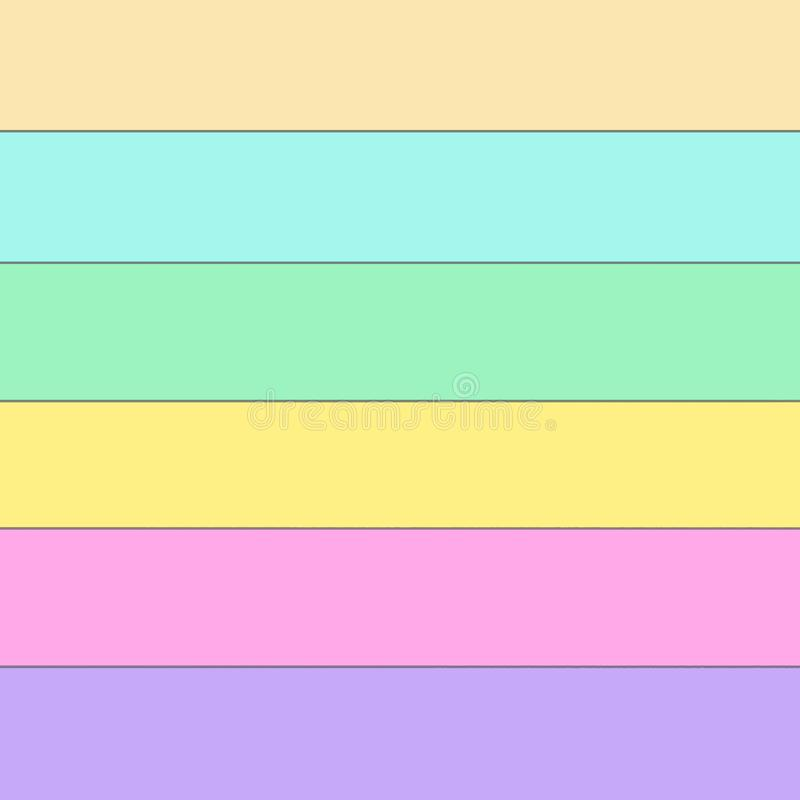
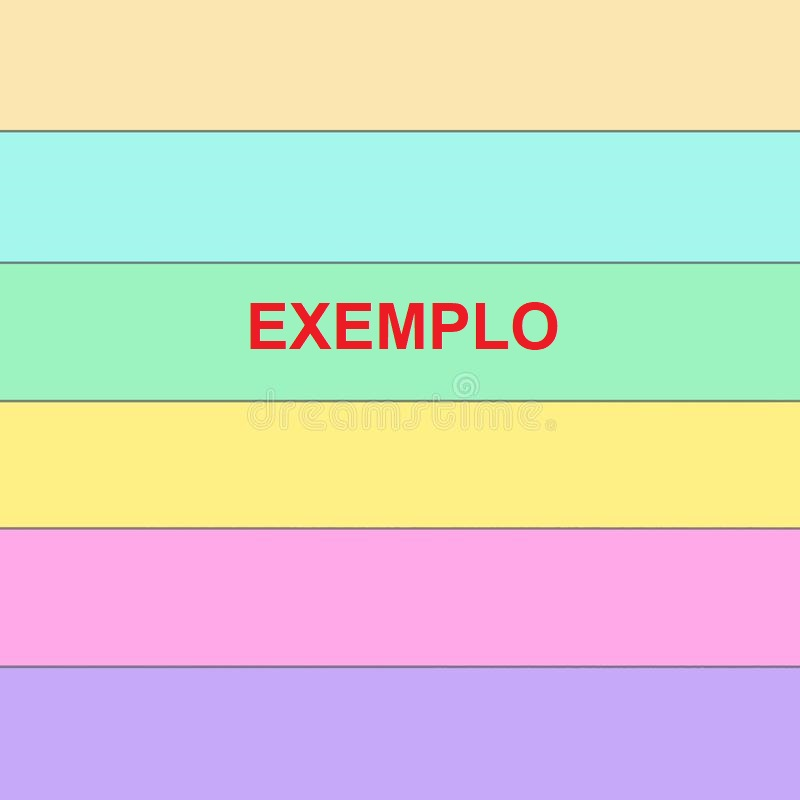
Finalização da página BancoDados.html

Changed region(s): [[0.3125, 0.375, 0.7188, 0.4375]]

diff --git a/front/bancoDados.html b/front/bancoDados.html
@@ -6,7 +6,7 @@
         <meta name="viewport" content="width=devicewidth, initial-scale = 1">
         <link rel="stylesheet" href="styles/CSSReset.css">
         <link rel="stylesheet" href="styles/styles.css">
-        <link rel="stylesheet" href="styles/quemSomos.css">
+        <link rel="stylesheet" href="styles/bancoDados.css">
         <link rel="preconnect" href="https://fonts.googleapis.com">
         <link rel="preconnect" href="https://fonts.gstatic.com" crossorigin>
         <link href="https://fonts.googleapis.com/css2?family=Inter:wght@400;700&display=swap" rel="stylesheet">
@@ -27,12 +27,19 @@
                 </ul>
             </nav>
         </header>
-        <div class="descricao_texto">
-            <div class="bg"></div>
-            <h1>Progresso do trabalho</h1>
-            <p>Colocar aqui um resumo sobre o processo do trabalho</p>
-        </div>
-        
+        <section>
+            <h1>Banco de Dados</h1>
+            <h2>Gráfico</h2>
+            <img src="images/foto_exemplo.jpg">
+            <h2>Dados em CSV</h2>
+            <p>dados,dados,dados,dados,dados,dados,dados,dados,dados,dados,dados,dados,
+                dados,dados,dados,dados,dados,dados,dados,dados,dados,dados,dados,dados,dados,
+                dados,dados,dados,dados,dados,dados,dados,dados,dados,dados,dados,dados,dados,
+                dados,dados,dados,dados,dados,dados,dados,dados,dados,dados,dados,dados,dados,
+                dados,dados,dados,dados,dados,dados,dados,dados,dados,dados,dados,dados,dados,
+                dados,dados,dados,dados,dados,dados,dados,dados,dados,dados,dados,dados,dados
+            </p>
+        </section>
         <footer>
         </footer>
     </body>

diff --git a/front/professores.html b/front/professores.html
@@ -6,7 +6,7 @@
         <meta name="viewport" content="width=devicewidth, initial-scale = 1">
         <link rel="stylesheet" href="styles/CSSReset.css">
         <link rel="stylesheet" href="styles/styles.css">
-        <link rel="stylesheet" href="styles/quemSomos.css">
+        <link rel="stylesheet" href="styles/professores.css">
         <link rel="preconnect" href="https://fonts.googleapis.com">
         <link rel="preconnect" href="https://fonts.gstatic.com" crossorigin>
         <link href="https://fonts.googleapis.com/css2?family=Inter:wght@400;700&display=swap" rel="stylesheet">
@@ -27,12 +27,6 @@
                 </ul>
             </nav>
         </header>
-        <div class="descricao_texto">
-            <div class="bg"></div>
-            <h1>Progresso do trabalho</h1>
-            <p>Colocar aqui um resumo sobre o processo do trabalho</p>
-        </div>
-        
         <footer>
         </footer>
     </body>

diff --git a/front/styles/bancoDados.css b/front/styles/bancoDados.css
@@ -1,0 +1,47 @@
+:root {
+    --branco-principal: #FFFFFF;
+    --preto-principal: #000000;
+    --azul-unb: #023E7A;
+    --verde-unb: #008C44;
+    --fonte-principal: 'Inter';
+}
+
+section {
+    margin-top: 180px;
+    color: var(--branco-principal);
+    display: flex;
+    flex-direction: column;
+    align-items: flex-start;
+}
+
+
+section h1 {
+    font-size: 70px;
+    text-align: center;
+    align-self: center;
+    padding: 10px 30px;
+    background-color: var(--azul-unb);
+    border-radius: 10px;
+}
+
+section h2{
+    margin: 40px 0;
+    font-size: 50px;
+    background-color: var(--azul-unb);
+    padding: 10px 30px;
+    border-radius: 10px;
+}
+
+section img {
+    height: 500px;
+    width: 1000px;
+    padding-left: 5%;
+}
+
+section p {
+    color: var(--preto-principal);
+    padding: 0 5%;
+    font-size: 18px;
+    text-align: left;
+    text-justify: distribute;
+}

diff --git a/front/index.html b/front/index.html
@@ -22,8 +22,8 @@
                 <ul>
                     <li><a href="index.html">Página Inicial</a></li>
                     <li><a href="quemSomos.html">Quem somos</a></li>
-                    <li><a href="#">Banco de dados</a></li>
-                    <li><a href="#">Professores</a></li>
+                    <li><a href="bancoDados.html">Banco de dados</a></li>
+                    <li><a href="professores.html">Professores</a></li>
                 </ul>
             </nav>
         </header>

diff --git a/front/styles/quemSomos.css b/front/styles/quemSomos.css
@@ -20,6 +20,8 @@
     opacity: .4;
     width: 100%;
     height: 100%;
+    min-height: 500px;
+    min-width: 800px;
 
   }
 
